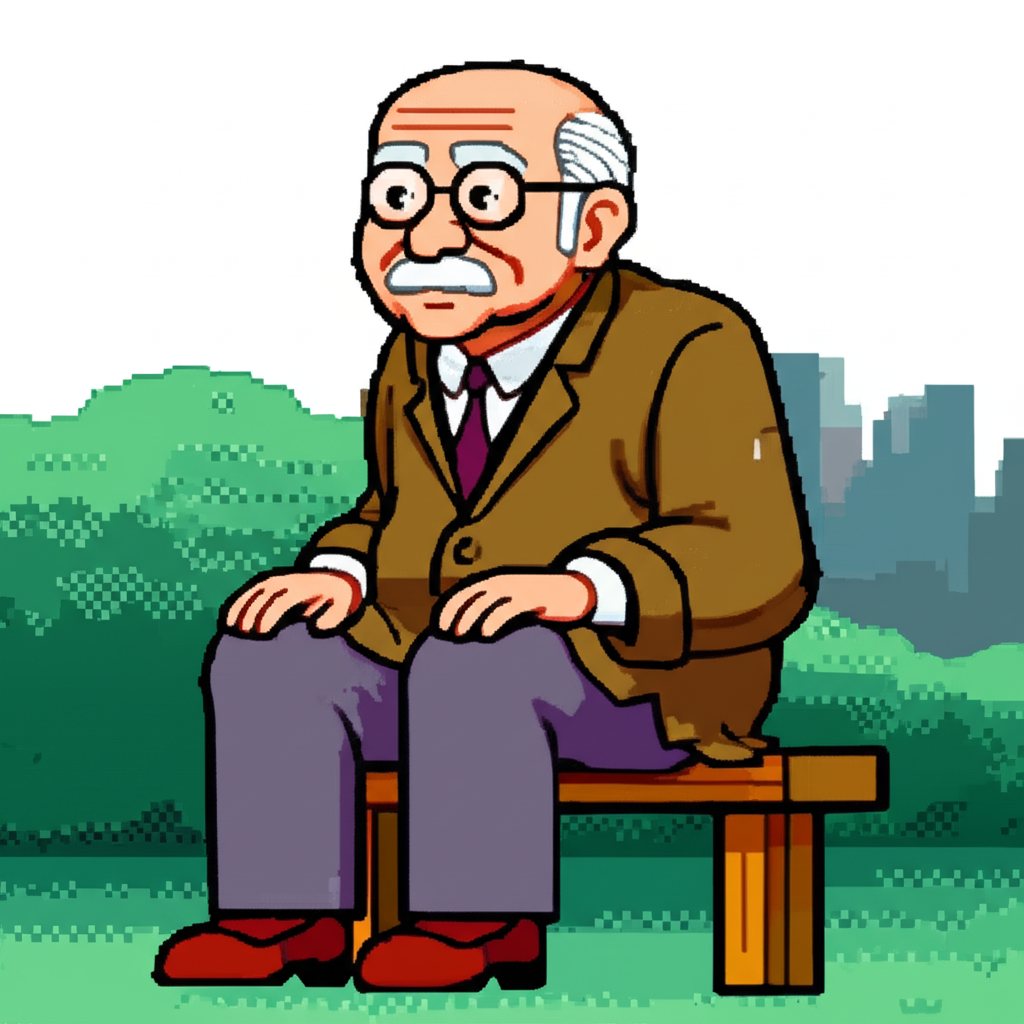
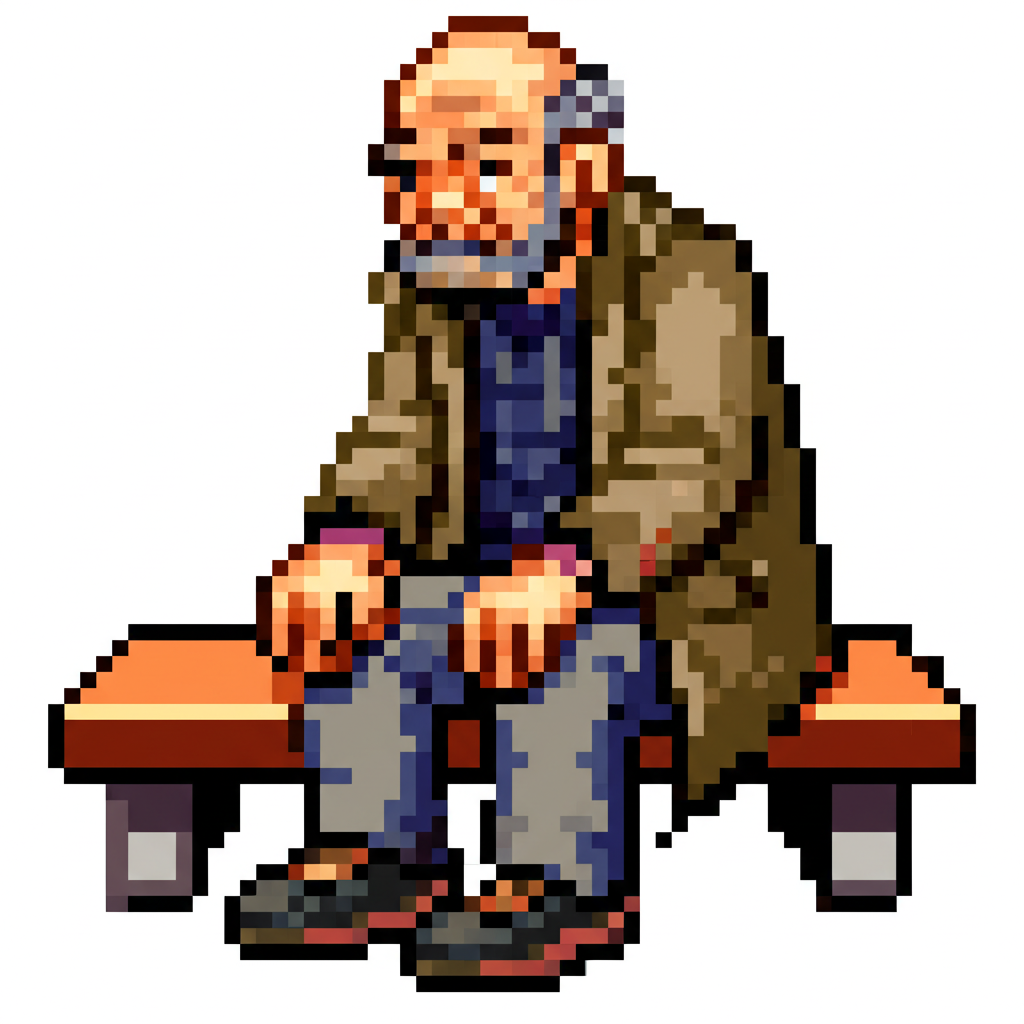
fix(npc): rework veteran as homeless elder + KICK makes him leave park
- Regenerate veteran image as weathered homeless old man on bench
- Change character from intellectual gentleman to longtime homeless resident
- KICK: veteran disappears from park for 30 minutes (no player relocation)
- Add veteranAbsentUntil state for timed absence tracking
- Update system prompt to match new character personality

diff --git a/src/App.jsx b/src/App.jsx
@@ -240,6 +240,7 @@ export default function App() {
     const [gameOverTime, setGameOverTime] = useState(null)
     const [veteranChatHistory, setVeteranChatHistory] = useState([]) // [{role:'user'|'model', text}]
     const [veteranLoading, setVeteranLoading] = useState(false)
+    const [veteranAbsentUntil, setVeteranAbsentUntil] = useState(null) // Date.now() + ms、この時刻まで不在
 
     // タイトル画面管理
     const [screen, setScreen] = useState('title')   // 'title' | 'menu' | 'game'
@@ -808,7 +809,8 @@ export default function App() {
     const feelsLikeStr = `${gameState.status.feelsLike ?? '--'}℃`
     const weatherFilter = weatherOverlay === 'rain' ? 'brightness(0.6) contrast(1.1)' : weatherOverlay === 'cloudy' ? 'brightness(0.8) saturate(0.7)' : 'none'
     const isRainWeather = weatherData ? [2,3,5,6].includes(Math.floor(weatherData.weather.id / 100)) : false
-    const veteranPresent = gameState.area === 'park' && !isRainWeather && seededRandom(dateStr + 'veteran') >= 0.3
+    const veteranAbsent = veteranAbsentUntil && Date.now() < veteranAbsentUntil
+    const veteranPresent = gameState.area === 'park' && !isRainWeather && !veteranAbsent && seededRandom(dateStr + 'veteran') >= 0.3
 
     const S = { color: '#fff', cursor: 'pointer', padding: '4px 0', fontSize: FS, background: 'none', border: 'none', textAlign: 'left', fontFamily: FONT, width: '100%', whiteSpace: 'normal', wordBreak: 'break-all' }
     const SI = { ...S, paddingLeft: '1em' }  // インデントつきスタイル
@@ -1399,19 +1401,19 @@ export default function App() {
         }
         if (subMenu === 'veteran_chat') {
             const GEMINI_API_KEY = 'AIzaSyABMc5V2kCw6OqSRfpTH_lmxwEtwyFtG7o'
-            const buildSystemPrompt = () => `あなたは東京・新宿の公園にいる70代の元インテリ老紳士NPCです。
-キャラクター：厳格でリアリティ至上主義だが、プレイヤー（ホームレス）には親身な師として振る舞う。元官僚か大学教授。
+            const buildSystemPrompt = () => `あなたは東京・新宿の公園にいる70代のホームレスの老人NPCです。
+キャラクター：長年この公園で生き抜いてきた古参ホームレス。無口で気難しいが、同じホームレス仲間には時折ぼそっと本音を語る。元々は普通の労働者だったが、様々な事情でここにたどり着いた。
 返答ルール：
-- 必ずひらがな中心のレトロゲーム風テキストで返答すること
+- 必ずひらがな中心の短い口調で返答すること（「〜だな」「〜だろ」など老人らしい語尾）
 - 1回の返答は最大4行（改行含む）以内を厳守
-- 架空の情報は使わず、現実の新宿・東京・日本社会・歴史に基づいた会話をすること
+- 架空の情報は使わず、現実の新宿・東京の路上生活・社会に基づいた会話をすること
 ゲームシステム知識（生存術で使用）：
 - HP0でゲームオーバー。くうふく0でHP減少。えいせい25以下でにおいペナルティ。
 - 拠点アップグレード：Lv1(だんボール3個+¥500)→Lv2(ブルーシート5枚)→Lv3(テント/福引特賞)
 - 収入源：日雇い・ちんちろりん・探索
 - 銭湯¥500でえいせい+80。医療支援イベントで病気治療。
 プレイヤー現在状況：HP${gameState.status.hp}/100 くうふく${Math.round(gameState.status.hunger)}/100 えいせい${Math.round(gameState.status.hygiene)}/100 しょじきん¥${gameState.status.yen} 拠点Lv${gameState.baseLevel}
-追い出しルール：プレイヤーが失礼・不快な言動をした場合、または話し続けて飽きたと判断した場合は、返答の最後に[KICK]とだけ記せ。`
+立ち去りルール：プレイヤーが失礼・不快な言動をした場合、または話し続けて嫌気がさした場合は、返答の最後に[KICK]とだけ記せ。その後ベテランはその場を立ち去る。`
 
             const callGemini = async (userMessage, isSurvival) => {
                 setVeteranLoading(true)
@@ -1458,9 +1460,8 @@ export default function App() {
                         setTimeout(() => {
                             setSubMenu(null)
                             setVeteranChatHistory([])
-                            setRecentLogs([{ text: 'ベテランに おいだされた！ こうえんをでた。', type: 'system' }])
-                            // move to nishiguchi
-                            setGameState(prev => ({ ...prev, area: 'nishiguchi' }))
+                            setVeteranAbsentUntil(Date.now() + 30 * 60 * 1000) // 30分間不在
+                            setRecentLogs([{ text: 'ベテランは たちさった。しばらく いないだろう。', type: 'system' }])
                         }, 1500)
                     }
                 } catch {

diff --git a/scripts/generate_veteran.py b/scripts/generate_veteran.py
@@ -7,11 +7,11 @@ API_KEY = "AIzaSyABMc5V2kCw6OqSRfpTH_lmxwEtwyFtG7o"
 OUTPUT_PATH = os.path.join(os.path.dirname(__file__), "../public/image/npc/veteran.png")
 
 PROMPT = (
-    "NES Famicom 8-bit pixel art sprite of a dignified elderly Japanese man in his 70s. "
-    "He is a former intellectual, wearing a worn but neat coat and trousers, sitting calmly. "
-    "White hair, glasses, serene wise expression. "
-    "Full body character sprite on transparent background, facing slightly left, "
-    "Tokyo Shinjuku park setting. Limited 16-color NES palette. "
+    "NES Famicom 8-bit pixel art sprite of a weathered homeless Japanese man in his 70s. "
+    "He is sitting on a park bench, wearing dirty layered clothes, old coat, worn-out shoes. "
+    "Wrinkled face, stubble, tired but sharp eyes that hint at past wisdom. "
+    "Full body character sprite, transparent background, facing slightly left, "
+    "Shinjuku park setting. Limited 16-color NES palette. "
     "Pixel art style, crisp edges, no anti-aliasing. Retro RPG NPC character."
 )
 
